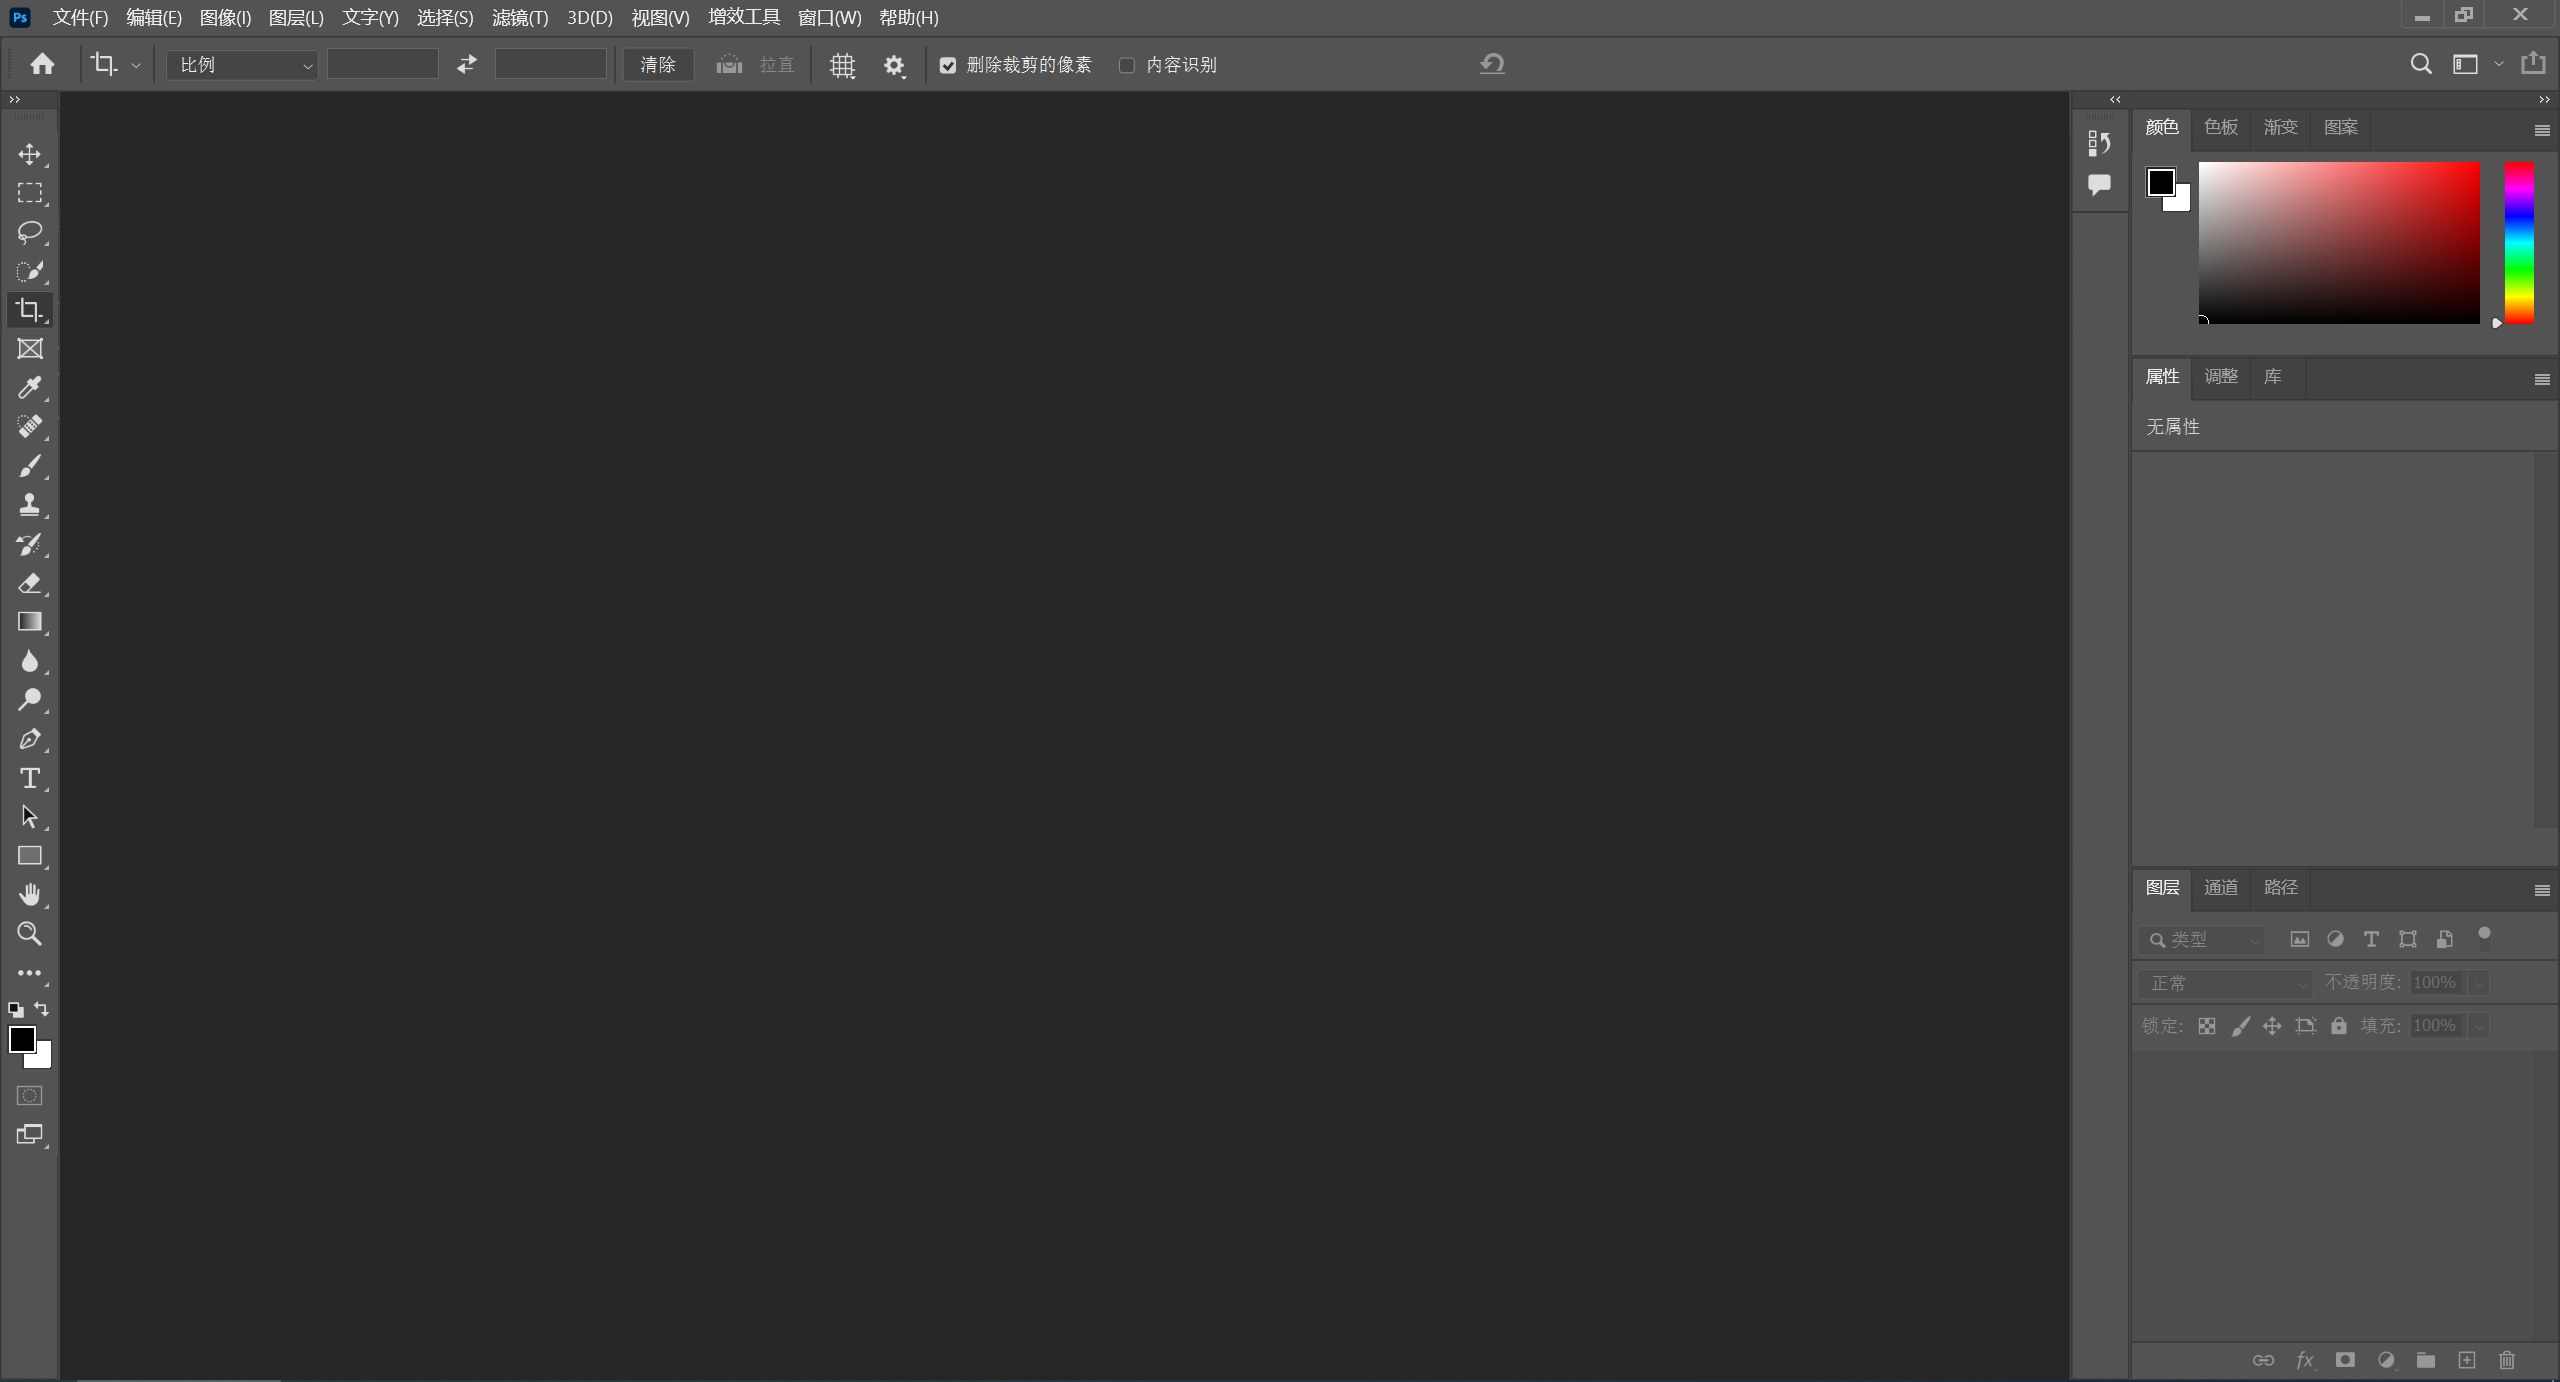
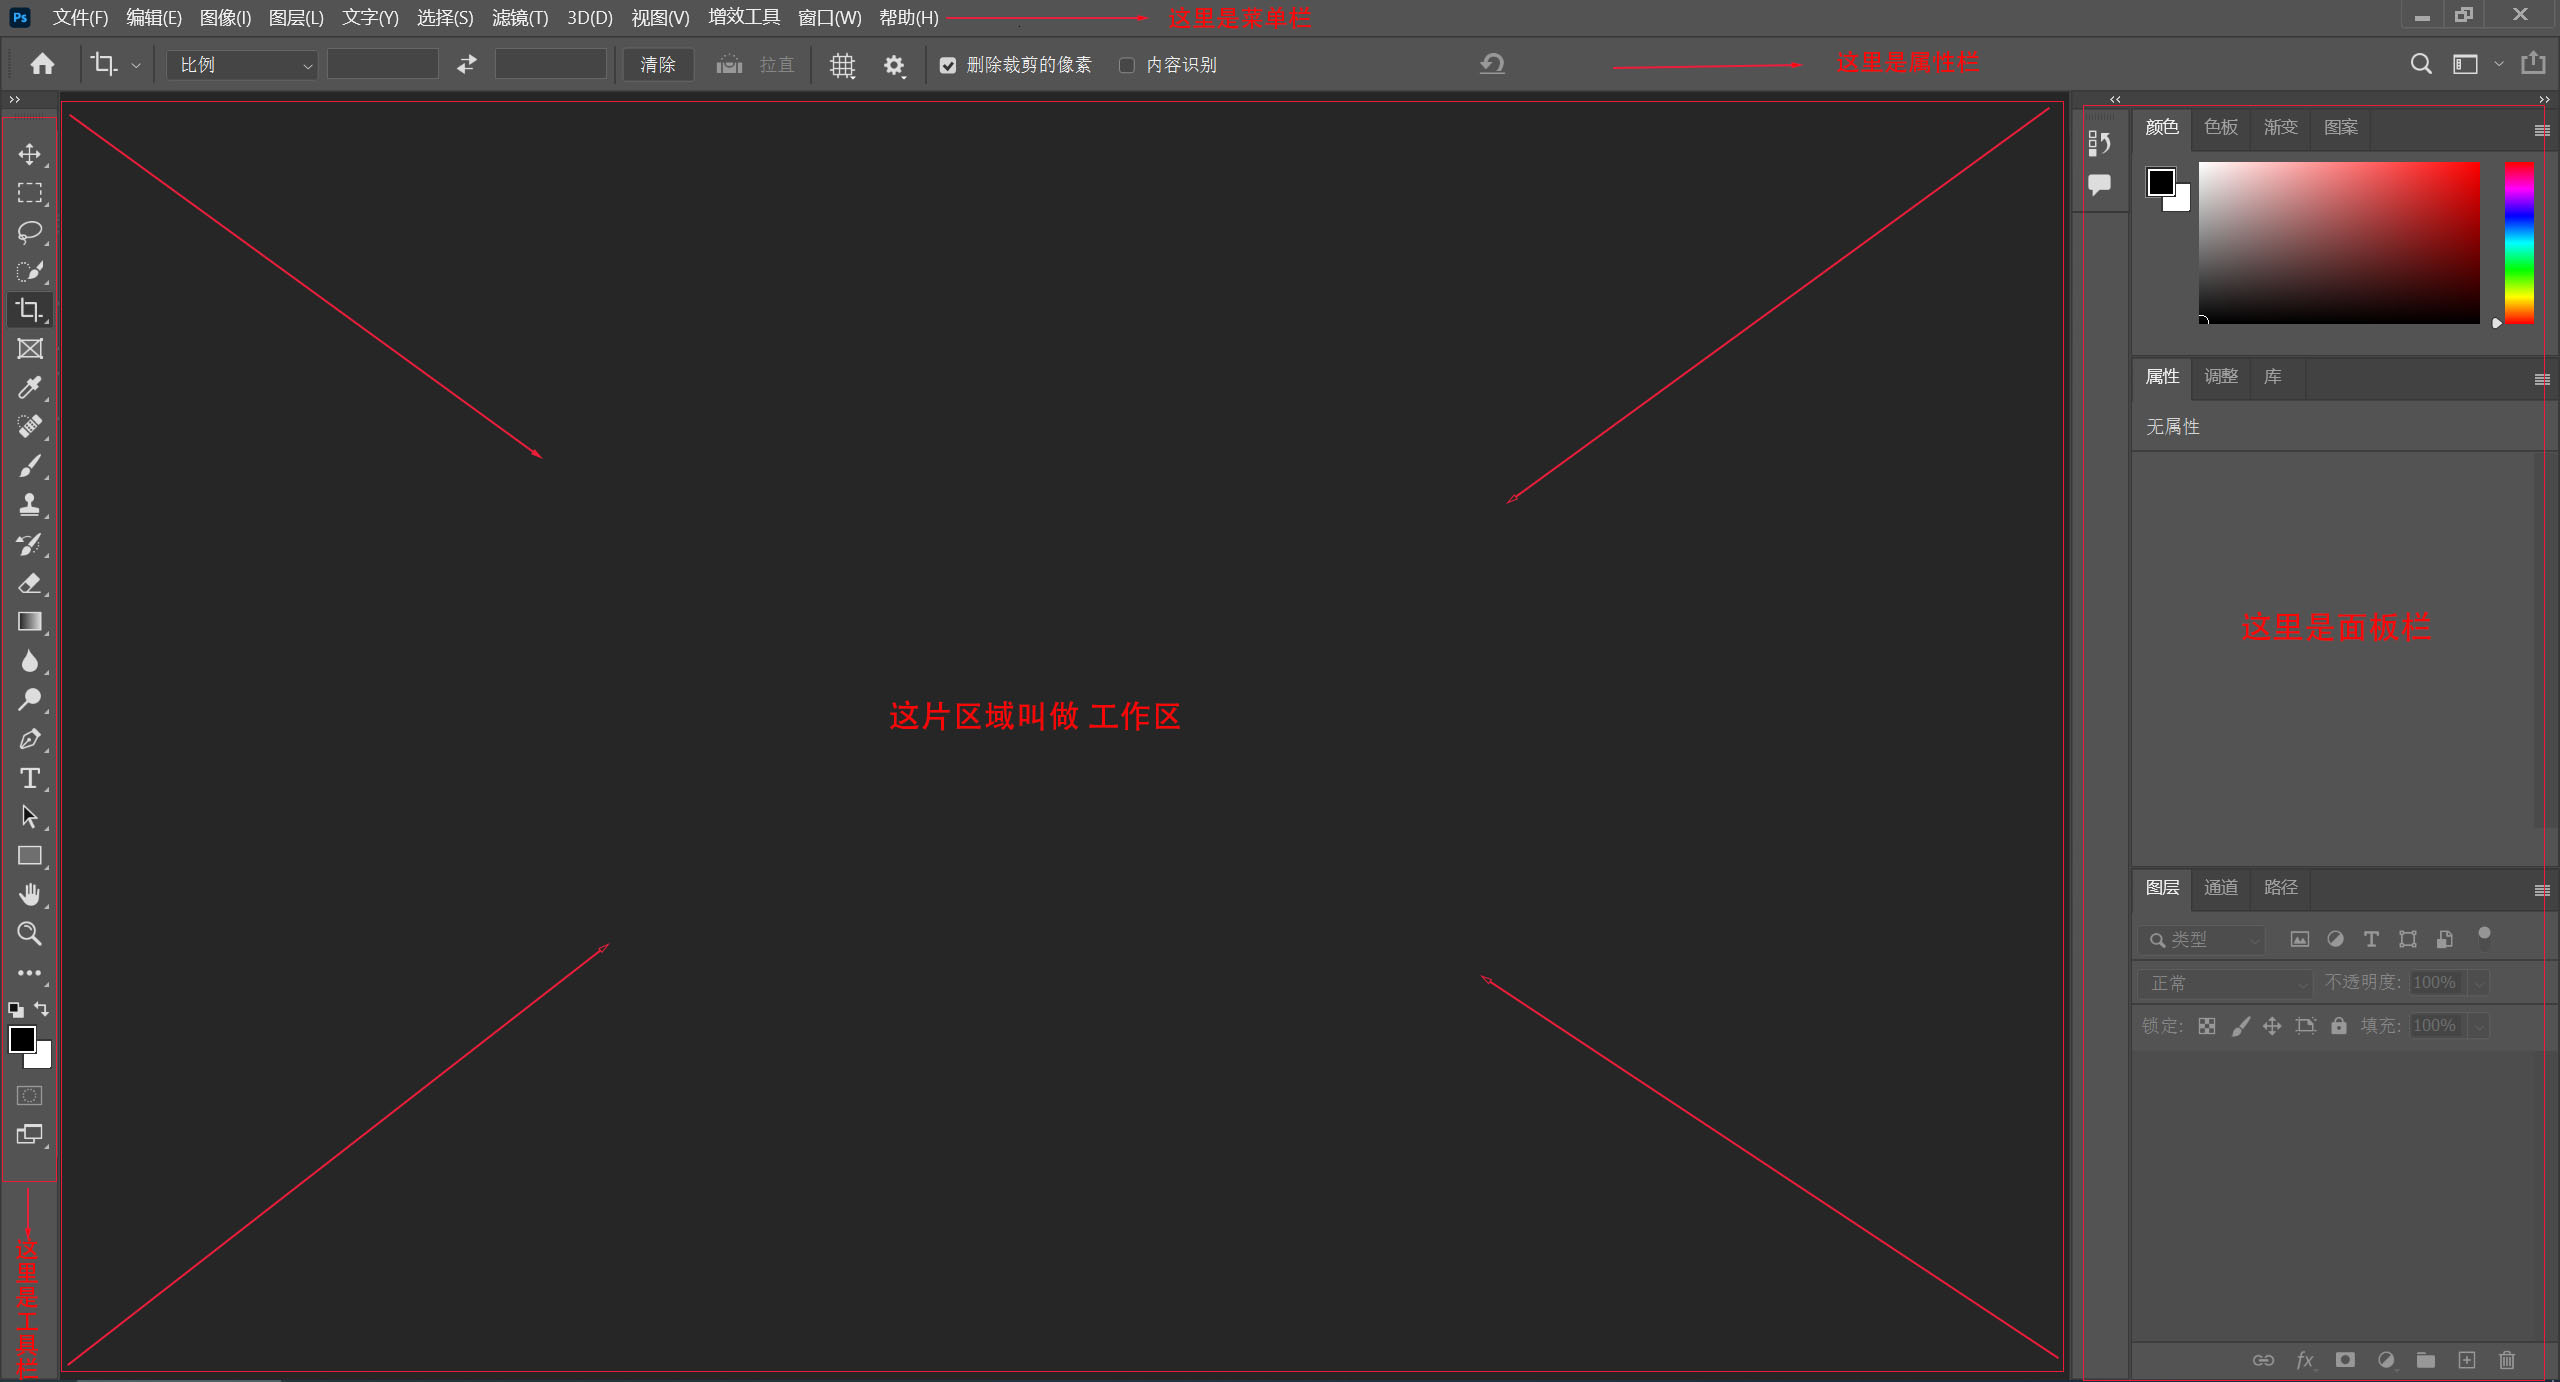
Site updated: 2022-04-22 12:06:53

diff --git a/2022/04/21/1/index.html b/2022/04/21/1/index.html
@@ -4,8 +4,7 @@
   <meta charset="utf-8">
   
   
-  <meta name="description" content="PS学习今天开始学习PS,首先了解下界面。我们第一次进入ps界面是这样的：然后点击那个大大的
-进入之后就是这样的" />
+  <meta name="description" content="PS学习第一节 认识PS界面今天开始学习PS,首先了解下界面。我们第一次进入ps界面是这样的：然后点击那个大大的进入之后我们来了解一下各个区域的名称" />
   
 
   
@@ -16,18 +15,18 @@
   
   <title>我爱学习</title>
   <meta name="viewport" content="width=device-width, initial-scale=1, maximum-scale=1">
-  <meta name="description" content="PS学习今天开始学习PS,首先了解下界面。我们第一次进入ps界面是这样的：然后点击那个大大的 进入之后就是这样的">
+  <meta name="description" content="PS学习第一节 认识PS界面今天开始学习PS,首先了解下界面。我们第一次进入ps界面是这样的：然后点击那个大大的进入之后我们来了解一下各个区域的名称">
 <meta property="og:type" content="article">
 <meta property="og:title" content="我爱学习">
 <meta property="og:url" content="http://example.com/2022/04/21/1/index.html">
 <meta property="og:site_name" content="我爱学习">
-<meta property="og:description" content="PS学习今天开始学习PS,首先了解下界面。我们第一次进入ps界面是这样的：然后点击那个大大的 进入之后就是这样的">
+<meta property="og:description" content="PS学习第一节 认识PS界面今天开始学习PS,首先了解下界面。我们第一次进入ps界面是这样的：然后点击那个大大的进入之后我们来了解一下各个区域的名称">
 <meta property="og:locale" content="en_US">
 <meta property="og:image" content="https://luoming2000.github.io/css/images/1/1.jpg">
 <meta property="og:image" content="https://luoming2000.github.io/css/images/1/2.jpg">
 <meta property="og:image" content="https://luoming2000.github.io/css/images/1/3.jpg">
 <meta property="article:published_time" content="2022-04-20T17:20:42.972Z">
-<meta property="article:modified_time" content="2022-04-21T16:25:06.149Z">
+<meta property="article:modified_time" content="2022-04-22T03:17:01.911Z">
 <meta property="article:author" content="John Doe">
 <meta name="twitter:card" content="summary">
 <meta name="twitter:image" content="https://luoming2000.github.io/css/images/1/1.jpg">
@@ -86,8 +85,8 @@
 
     <div class="entry-content">
       
-        <h1 id="PS学习"><a href="#PS学习" class="headerlink" title="PS学习"></a>PS学习</h1><p>今天开始学习PS,首先了解下界面。我们第一次进入ps界面是这样的：<img src="https://luoming2000.github.io/css/images/1/1.jpg">然后点击那个大大的<img src="https://luoming2000.github.io/css/images/1/2.jpg"></p>
-<p>进入之后就是这样的<img src="https://luoming2000.github.io/css/images/1/3.jpg"></p>
+        <h1 id="PS学习"><a href="#PS学习" class="headerlink" title="PS学习"></a>PS学习</h1><h2 id="第一节-认识PS界面"><a href="#第一节-认识PS界面" class="headerlink" title="第一节 认识PS界面"></a>第一节 认识PS界面</h2><p>今天开始学习PS,首先了解下界面。我们第一次进入ps界面是这样的：<img src="https://luoming2000.github.io/css/images/1/1.jpg">然后点击那个大大的<img src="https://luoming2000.github.io/css/images/1/2.jpg">进入之后我们来了解一下各个区域的名称</p>
+<p><img src="https://luoming2000.github.io/css/images/1/3.jpg"></p>
 
       
     </div><!-- .entry-content -->

diff --git a/index.html b/index.html
@@ -77,8 +77,8 @@
 
     <div class="entry-content">
       
-        <h1 id="PS学习"><a href="#PS学习" class="headerlink" title="PS学习"></a>PS学习</h1><p>今天开始学习PS,首先了解下界面。我们第一次进入ps界面是这样的：<img src="https://luoming2000.github.io/css/images/1/1.jpg">然后点击那个大大的<img src="https://luoming2000.github.io/css/images/1/2.jpg"></p>
-<p>进入之后就是这样的<img src="https://luoming2000.github.io/css/images/1/3.jpg"></p>
+        <h1 id="PS学习"><a href="#PS学习" class="headerlink" title="PS学习"></a>PS学习</h1><h2 id="第一节-认识PS界面"><a href="#第一节-认识PS界面" class="headerlink" title="第一节 认识PS界面"></a>第一节 认识PS界面</h2><p>今天开始学习PS,首先了解下界面。我们第一次进入ps界面是这样的：<img src="https://luoming2000.github.io/css/images/1/1.jpg">然后点击那个大大的<img src="https://luoming2000.github.io/css/images/1/2.jpg">进入之后我们来了解一下各个区域的名称</p>
+<p><img src="https://luoming2000.github.io/css/images/1/3.jpg"></p>
 
       
     </div><!-- .entry-content -->
